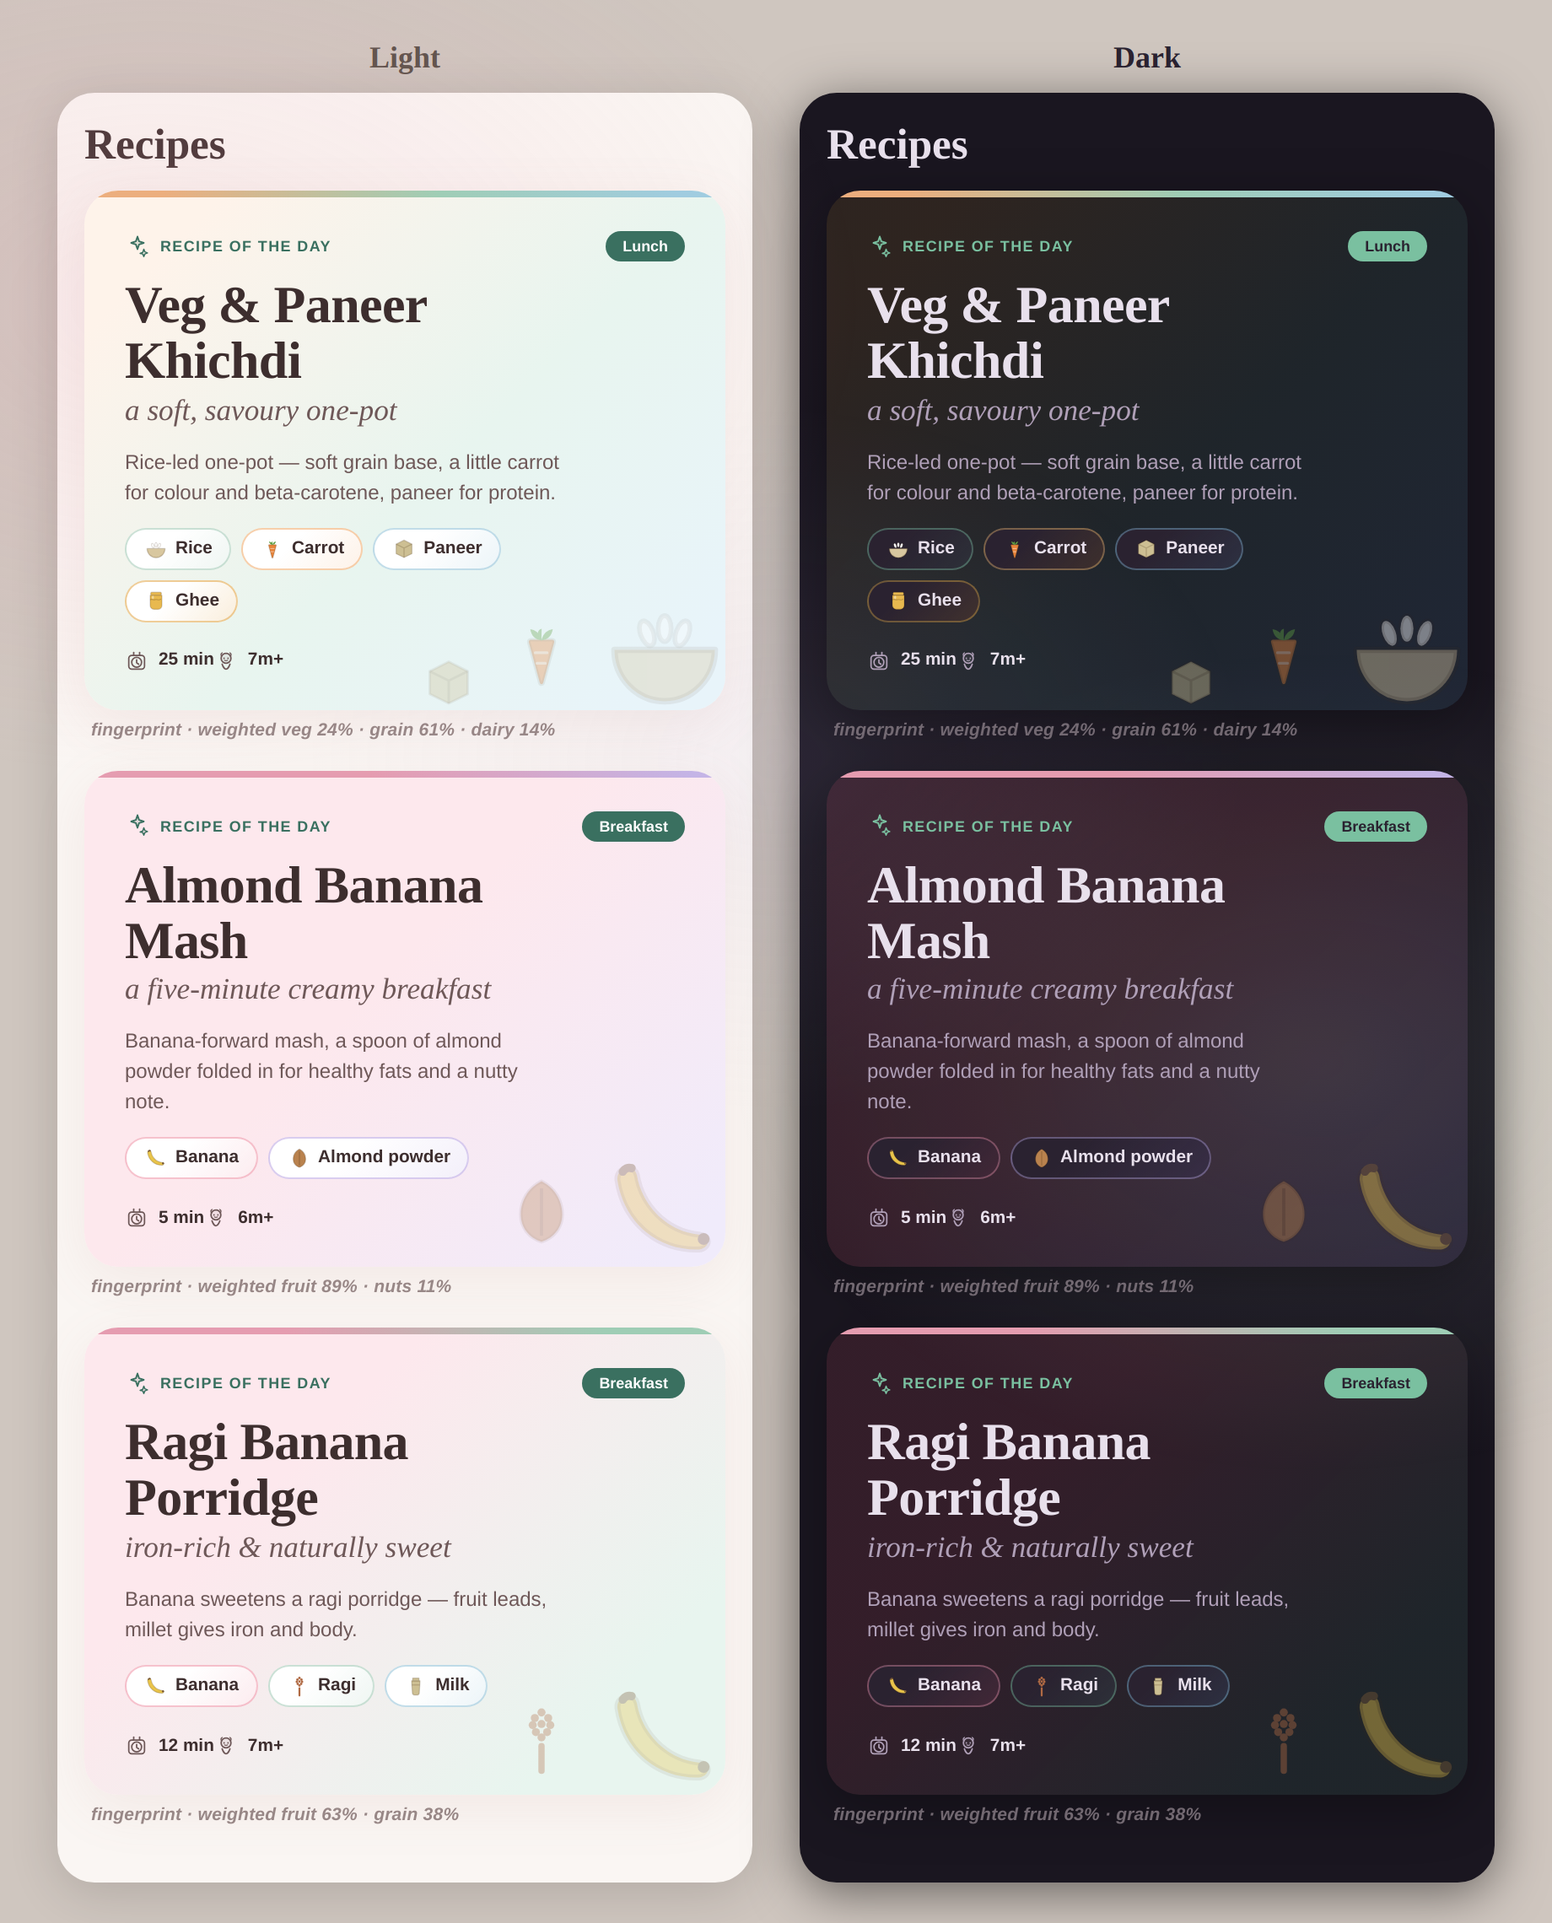
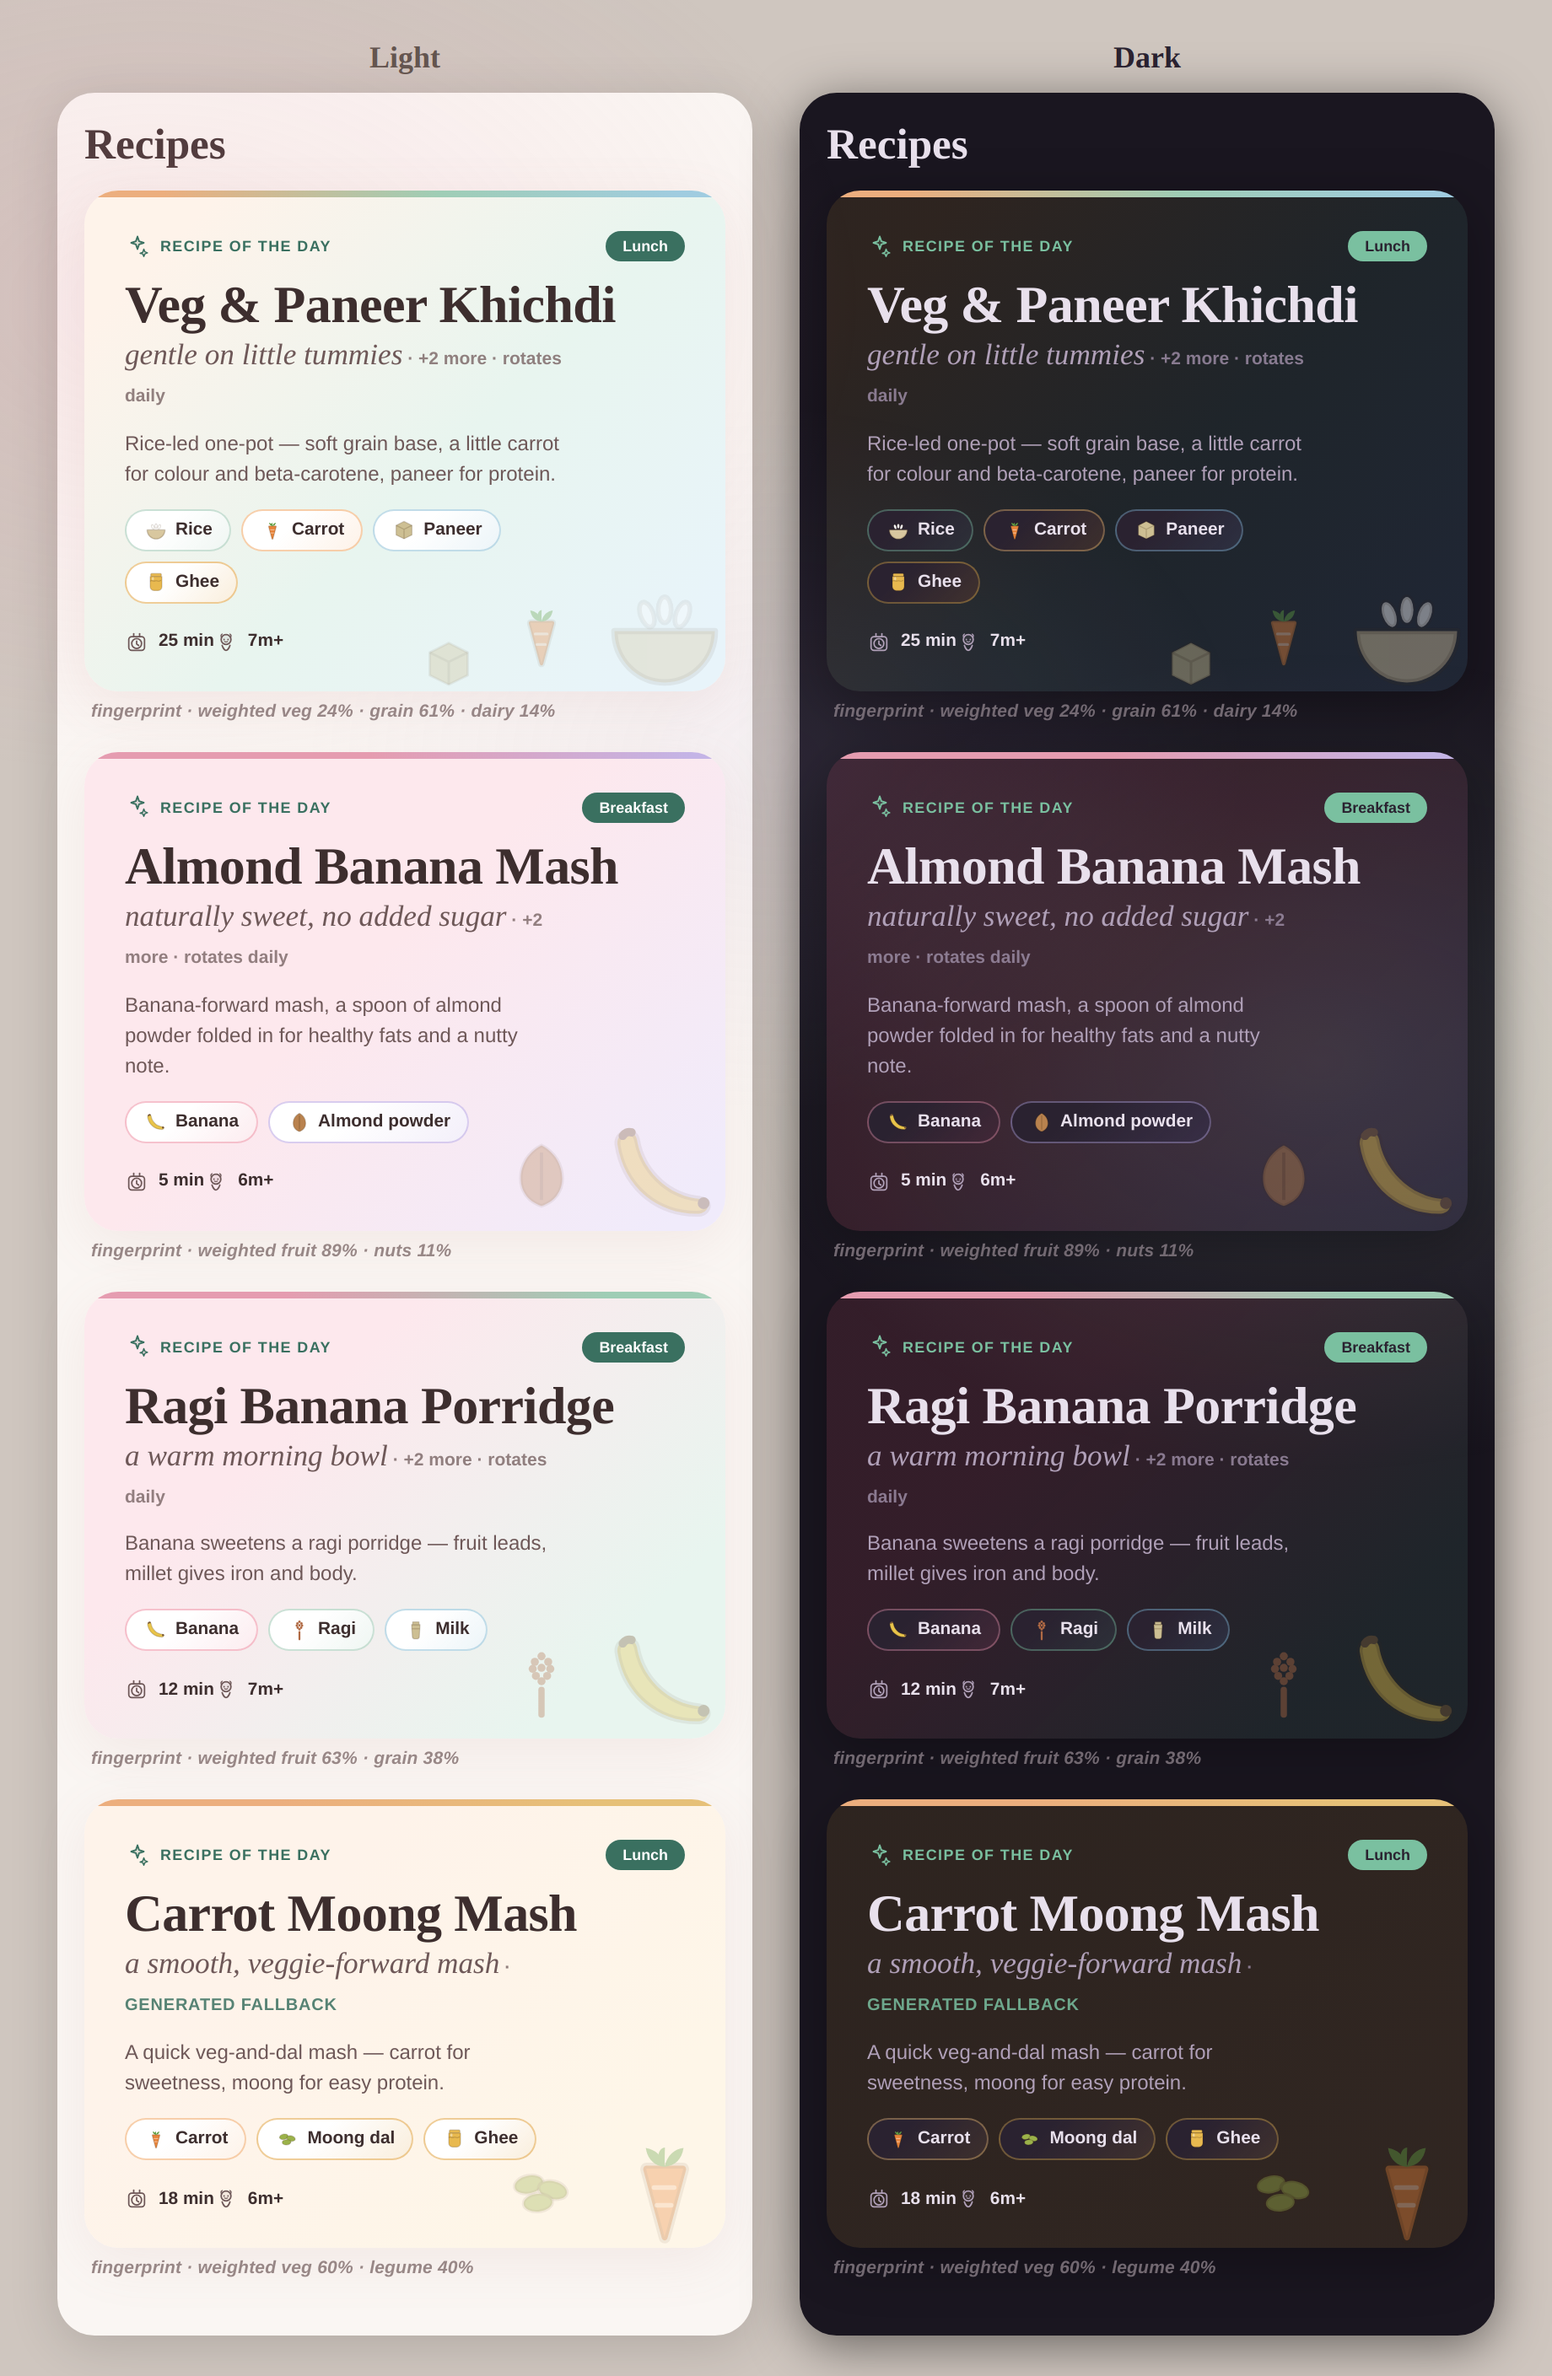
design(draft): tagline system + title-wrap fix (typography C)
Per Architect direction:
- KEEP both the italic descriptor + the Nunito why.
- TAGLINE MODEL: recipes carry 2-3 curated taglines, rotated by a day-seed
  (novelty, deterministic within a day). Uncurated mixes fall back to a
  GENERATED line: {texture}, {dominant-domain} {form} (e.g. Carrot Moong Mash
  -> 'a smooth, veggie-forward mash'). 4th demo card proves the fallback.
  (The '+N more / rotates daily / generated fallback' notes are design-record
  annotations, not shipped chrome.)
- Italic stays DESCRIPTOR-ONLY (not on eyebrow/section).
- Title wrap was the max-width:80% guard, not a design break -> widened to 92%
  + text-wrap:balance; demo titles now sit on one line.
Still DRAFT — awaiting sign-off. Docs-only.

diff --git a/docs/design/recipes-tab/09-hero-motion.html b/docs/design/recipes-tab/09-hero-motion.html
@@ -42,8 +42,10 @@
   .gh-eyebrow .zi{width:15px;height:15px;}
   .gh-badge{flex:0 0 auto;display:inline-flex;align-items:center;gap:var(--sp-4);background:var(--tc-sage);color:var(--card-bg);border-radius:var(--r-full);padding:var(--sp-4) var(--sp-10);font-size:var(--fs-2xs);font-weight:800;}
   /* direction C — roman title + Fraunces italic "voice" descriptor */
-  .gh-title{position:relative;z-index:1;font-family:'Fraunces',serif;font-weight:700;font-size:31px;line-height:1.06;letter-spacing:-0.01em;color:var(--text);margin-bottom:2px;max-width:80%;}
+  .gh-title{position:relative;z-index:1;font-family:'Fraunces',serif;font-weight:700;font-size:31px;line-height:1.06;letter-spacing:-0.01em;color:var(--text);margin-bottom:2px;max-width:92%;text-wrap:balance;}
   .gh-tag{position:relative;z-index:1;font-family:'Fraunces',serif;font-style:italic;font-weight:400;font-size:var(--fs-lg);line-height:1.25;color:var(--mid);margin:0 0 var(--sp-10);max-width:82%;}
+  .gh-bank{font-family:'Nunito',sans-serif;font-style:normal;font-size:10.5px;font-weight:700;color:var(--light);opacity:.85;}
+  .bk-gen{font-family:'Nunito',sans-serif;font-style:normal;font-size:10px;font-weight:800;text-transform:uppercase;letter-spacing:.04em;color:var(--tc-sage);}
   .gh-why{position:relative;z-index:1;font-size:var(--fs-sm);color:var(--mid);line-height:1.5;margin-bottom:var(--sp-12);max-width:78%;}
   .gh-ings{position:relative;z-index:1;display:flex;flex-wrap:wrap;gap:var(--sp-6);margin-bottom:var(--sp-16);max-width:82%;}
   .gh-chip{display:inline-flex;align-items:center;gap:var(--sp-4);background-color:var(--card-bg);border:1px solid var(--card-border);border-radius:var(--r-full);padding:var(--sp-4) var(--sp-10);font-size:var(--fs-xs);font-weight:700;color:var(--text);}
@@ -140,7 +142,7 @@
     <div class="gh-top"><span class="gh-eyebrow"><svg class="zi"><use href="#zi-sparkle"/></svg>Recipe of the day</span>
       <span class="gh-badge">Lunch</span></div>
     <h3 class="gh-title">Veg & Paneer Khichdi</h3>
-    <p class="gh-tag">a soft, savoury one-pot</p>
+    <p class="gh-tag">gentle on little tummies<span class="gh-bank"> · +2 more · rotates daily</span></p>
     <p class="gh-why">Rice-led one-pot — soft grain base, a little carrot for colour and beta-carotene, paneer for protein.</p>
     <div class="gh-ings"><span class="gh-chip dt-grains"><svg class="zi" style="color:#d8c79f"><use href="#zif-rice"/></svg>Rice</span><span class="gh-chip dt-vegs"><svg class="zi" style="color:#e8843a"><use href="#zif-carrot"/></svg>Carrot</span><span class="gh-chip dt-dairy"><svg class="zi" style="color:#cdbf93"><use href="#zif-paneer"/></svg>Paneer</span><span class="gh-chip dt-legume"><svg class="zi" style="color:#e8b94f"><use href="#zif-ghee"/></svg>Ghee</span></div>
     <div class="gh-foot"><span class="gh-meta"><svg class="zi"><use href="#zi-clock"/></svg><b>25 min</b></span>
@@ -152,7 +154,7 @@
     <div class="gh-top"><span class="gh-eyebrow"><svg class="zi"><use href="#zi-sparkle"/></svg>Recipe of the day</span>
       <span class="gh-badge">Breakfast</span></div>
     <h3 class="gh-title">Almond Banana Mash</h3>
-    <p class="gh-tag">a five-minute creamy breakfast</p>
+    <p class="gh-tag">naturally sweet, no added sugar<span class="gh-bank"> · +2 more · rotates daily</span></p>
     <p class="gh-why">Banana-forward mash, a spoon of almond powder folded in for healthy fats and a nutty note.</p>
     <div class="gh-ings"><span class="gh-chip dt-fruits"><svg class="zi" style="color:#e9c44a"><use href="#zif-banana"/></svg>Banana</span><span class="gh-chip dt-nuts"><svg class="zi" style="color:#b9824e"><use href="#zif-almond"/></svg>Almond powder</span></div>
     <div class="gh-foot"><span class="gh-meta"><svg class="zi"><use href="#zi-clock"/></svg><b>5 min</b></span>
@@ -164,13 +166,25 @@
     <div class="gh-top"><span class="gh-eyebrow"><svg class="zi"><use href="#zi-sparkle"/></svg>Recipe of the day</span>
       <span class="gh-badge">Breakfast</span></div>
     <h3 class="gh-title">Ragi Banana Porridge</h3>
-    <p class="gh-tag">iron-rich & naturally sweet</p>
+    <p class="gh-tag">a warm morning bowl<span class="gh-bank"> · +2 more · rotates daily</span></p>
     <p class="gh-why">Banana sweetens a ragi porridge — fruit leads, millet gives iron and body.</p>
     <div class="gh-ings"><span class="gh-chip dt-fruits"><svg class="zi" style="color:#e9c44a"><use href="#zif-banana"/></svg>Banana</span><span class="gh-chip dt-grains"><svg class="zi" style="color:#b06a44"><use href="#zif-millet"/></svg>Ragi</span><span class="gh-chip dt-dairy"><svg class="zi" style="color:#cdbf93"><use href="#zif-milk"/></svg>Milk</span></div>
     <div class="gh-foot"><span class="gh-meta"><svg class="zi"><use href="#zi-clock"/></svg><b>12 min</b></span>
       <span class="gh-meta"><svg class="zi"><use href="#zi-baby"/></svg><b>7m+</b></span></div>
   </article>
   <p class="fp">fingerprint · weighted fruit 63% · grain 38%</p>
+<article class="gh" style="--stripe:linear-gradient(90deg, #ecae7e 0%, #ecae7e 30%, #e6c078 80%, #e6c078 100%);--fl:linear-gradient(135deg, var(--peach-light) 0%, var(--peach-light) 30%, var(--amber-light) 80%, var(--amber-light) 100%);--fd:linear-gradient(135deg, rgba(138,101,32,0.18) 0%, rgba(138,101,32,0.18) 30%, rgba(150,110,40,0.18) 80%, rgba(150,110,40,0.18) 100%)">
+    <div class="gh-wm"><span class="wi s1"><svg class="zi" style="color:#e8843a"><use href="#zif-carrot"/></svg></span><span class="wi s2"><svg class="zi" style="color:#9bb24a"><use href="#zif-dal"/></svg></span></div>
+    <div class="gh-top"><span class="gh-eyebrow"><svg class="zi"><use href="#zi-sparkle"/></svg>Recipe of the day</span>
+      <span class="gh-badge">Lunch</span></div>
+    <h3 class="gh-title">Carrot Moong Mash</h3>
+    <p class="gh-tag">a smooth, veggie-forward mash<span class="gh-bank"> · <span class="bk-gen">generated fallback</span></span></p>
+    <p class="gh-why">A quick veg-and-dal mash — carrot for sweetness, moong for easy protein.</p>
+    <div class="gh-ings"><span class="gh-chip dt-vegs"><svg class="zi" style="color:#e8843a"><use href="#zif-carrot"/></svg>Carrot</span><span class="gh-chip dt-legume"><svg class="zi" style="color:#9bb24a"><use href="#zif-dal"/></svg>Moong dal</span><span class="gh-chip dt-legume"><svg class="zi" style="color:#e8b94f"><use href="#zif-ghee"/></svg>Ghee</span></div>
+    <div class="gh-foot"><span class="gh-meta"><svg class="zi"><use href="#zi-clock"/></svg><b>18 min</b></span>
+      <span class="gh-meta"><svg class="zi"><use href="#zi-baby"/></svg><b>6m+</b></span></div>
+  </article>
+  <p class="fp">fingerprint · weighted veg 60% · legume 40%</p>
   </div></div><div class="r-col">
   <p class="r-mode dark">Dark</p>
   <div class="r-phone" data-theme="dark">
@@ -180,7 +194,7 @@
     <div class="gh-top"><span class="gh-eyebrow"><svg class="zi"><use href="#zi-sparkle"/></svg>Recipe of the day</span>
       <span class="gh-badge">Lunch</span></div>
     <h3 class="gh-title">Veg & Paneer Khichdi</h3>
-    <p class="gh-tag">a soft, savoury one-pot</p>
+    <p class="gh-tag">gentle on little tummies<span class="gh-bank"> · +2 more · rotates daily</span></p>
     <p class="gh-why">Rice-led one-pot — soft grain base, a little carrot for colour and beta-carotene, paneer for protein.</p>
     <div class="gh-ings"><span class="gh-chip dt-grains"><svg class="zi" style="color:#d8c79f"><use href="#zif-rice"/></svg>Rice</span><span class="gh-chip dt-vegs"><svg class="zi" style="color:#e8843a"><use href="#zif-carrot"/></svg>Carrot</span><span class="gh-chip dt-dairy"><svg class="zi" style="color:#cdbf93"><use href="#zif-paneer"/></svg>Paneer</span><span class="gh-chip dt-legume"><svg class="zi" style="color:#e8b94f"><use href="#zif-ghee"/></svg>Ghee</span></div>
     <div class="gh-foot"><span class="gh-meta"><svg class="zi"><use href="#zi-clock"/></svg><b>25 min</b></span>
@@ -192,7 +206,7 @@
     <div class="gh-top"><span class="gh-eyebrow"><svg class="zi"><use href="#zi-sparkle"/></svg>Recipe of the day</span>
       <span class="gh-badge">Breakfast</span></div>
     <h3 class="gh-title">Almond Banana Mash</h3>
-    <p class="gh-tag">a five-minute creamy breakfast</p>
+    <p class="gh-tag">naturally sweet, no added sugar<span class="gh-bank"> · +2 more · rotates daily</span></p>
     <p class="gh-why">Banana-forward mash, a spoon of almond powder folded in for healthy fats and a nutty note.</p>
     <div class="gh-ings"><span class="gh-chip dt-fruits"><svg class="zi" style="color:#e9c44a"><use href="#zif-banana"/></svg>Banana</span><span class="gh-chip dt-nuts"><svg class="zi" style="color:#b9824e"><use href="#zif-almond"/></svg>Almond powder</span></div>
     <div class="gh-foot"><span class="gh-meta"><svg class="zi"><use href="#zi-clock"/></svg><b>5 min</b></span>
@@ -204,12 +218,24 @@
     <div class="gh-top"><span class="gh-eyebrow"><svg class="zi"><use href="#zi-sparkle"/></svg>Recipe of the day</span>
       <span class="gh-badge">Breakfast</span></div>
     <h3 class="gh-title">Ragi Banana Porridge</h3>
-    <p class="gh-tag">iron-rich & naturally sweet</p>
+    <p class="gh-tag">a warm morning bowl<span class="gh-bank"> · +2 more · rotates daily</span></p>
     <p class="gh-why">Banana sweetens a ragi porridge — fruit leads, millet gives iron and body.</p>
     <div class="gh-ings"><span class="gh-chip dt-fruits"><svg class="zi" style="color:#e9c44a"><use href="#zif-banana"/></svg>Banana</span><span class="gh-chip dt-grains"><svg class="zi" style="color:#b06a44"><use href="#zif-millet"/></svg>Ragi</span><span class="gh-chip dt-dairy"><svg class="zi" style="color:#cdbf93"><use href="#zif-milk"/></svg>Milk</span></div>
     <div class="gh-foot"><span class="gh-meta"><svg class="zi"><use href="#zi-clock"/></svg><b>12 min</b></span>
       <span class="gh-meta"><svg class="zi"><use href="#zi-baby"/></svg><b>7m+</b></span></div>
   </article>
   <p class="fp">fingerprint · weighted fruit 63% · grain 38%</p>
+<article class="gh" style="--stripe:linear-gradient(90deg, #ecae7e 0%, #ecae7e 30%, #e6c078 80%, #e6c078 100%);--fl:linear-gradient(135deg, var(--peach-light) 0%, var(--peach-light) 30%, var(--amber-light) 80%, var(--amber-light) 100%);--fd:linear-gradient(135deg, rgba(138,101,32,0.18) 0%, rgba(138,101,32,0.18) 30%, rgba(150,110,40,0.18) 80%, rgba(150,110,40,0.18) 100%)">
+    <div class="gh-wm"><span class="wi s1"><svg class="zi" style="color:#e8843a"><use href="#zif-carrot"/></svg></span><span class="wi s2"><svg class="zi" style="color:#9bb24a"><use href="#zif-dal"/></svg></span></div>
+    <div class="gh-top"><span class="gh-eyebrow"><svg class="zi"><use href="#zi-sparkle"/></svg>Recipe of the day</span>
+      <span class="gh-badge">Lunch</span></div>
+    <h3 class="gh-title">Carrot Moong Mash</h3>
+    <p class="gh-tag">a smooth, veggie-forward mash<span class="gh-bank"> · <span class="bk-gen">generated fallback</span></span></p>
+    <p class="gh-why">A quick veg-and-dal mash — carrot for sweetness, moong for easy protein.</p>
+    <div class="gh-ings"><span class="gh-chip dt-vegs"><svg class="zi" style="color:#e8843a"><use href="#zif-carrot"/></svg>Carrot</span><span class="gh-chip dt-legume"><svg class="zi" style="color:#9bb24a"><use href="#zif-dal"/></svg>Moong dal</span><span class="gh-chip dt-legume"><svg class="zi" style="color:#e8b94f"><use href="#zif-ghee"/></svg>Ghee</span></div>
+    <div class="gh-foot"><span class="gh-meta"><svg class="zi"><use href="#zi-clock"/></svg><b>18 min</b></span>
+      <span class="gh-meta"><svg class="zi"><use href="#zi-baby"/></svg><b>6m+</b></span></div>
+  </article>
+  <p class="fp">fingerprint · weighted veg 60% · legume 40%</p>
   </div></div></div>
 </body></html>
